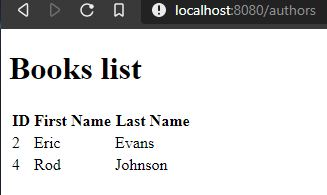
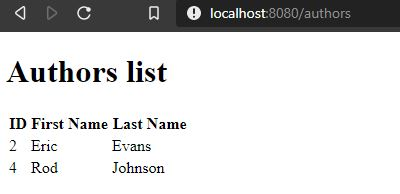
typo

Changed region(s): [[0.0, 0.0, 1.0, 0.1856], [0.0, 0.5876, 0.581, 0.8969], [0.0, 0.2784, 0.4281, 0.433]]

diff --git a/src/main/resources/templates/authors/list.html b/src/main/resources/templates/authors/list.html
@@ -5,7 +5,7 @@
     <title>Spring Framework Guru</title>
 </head>
 <body>
-<h1>Books list</h1>
+<h1>Authors list</h1>
 <table>
     <tr>
         <th>ID</th>
